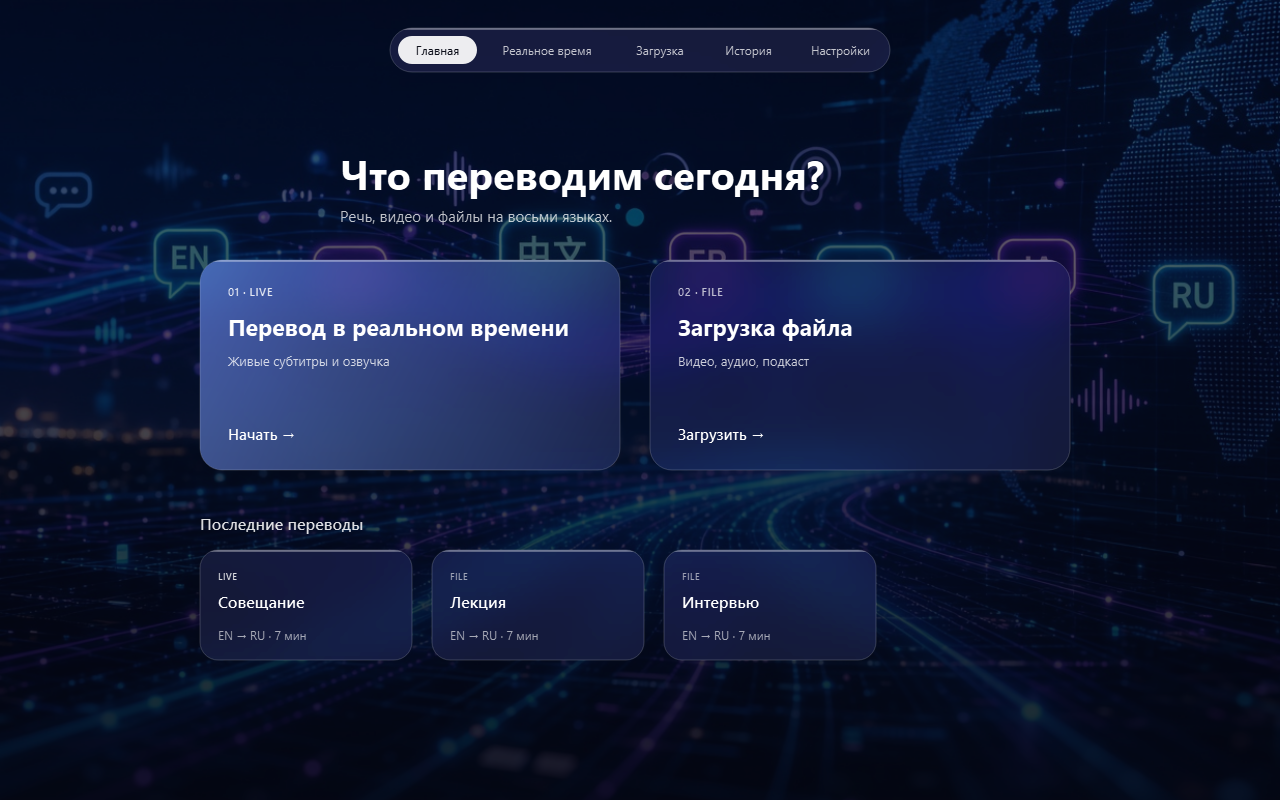
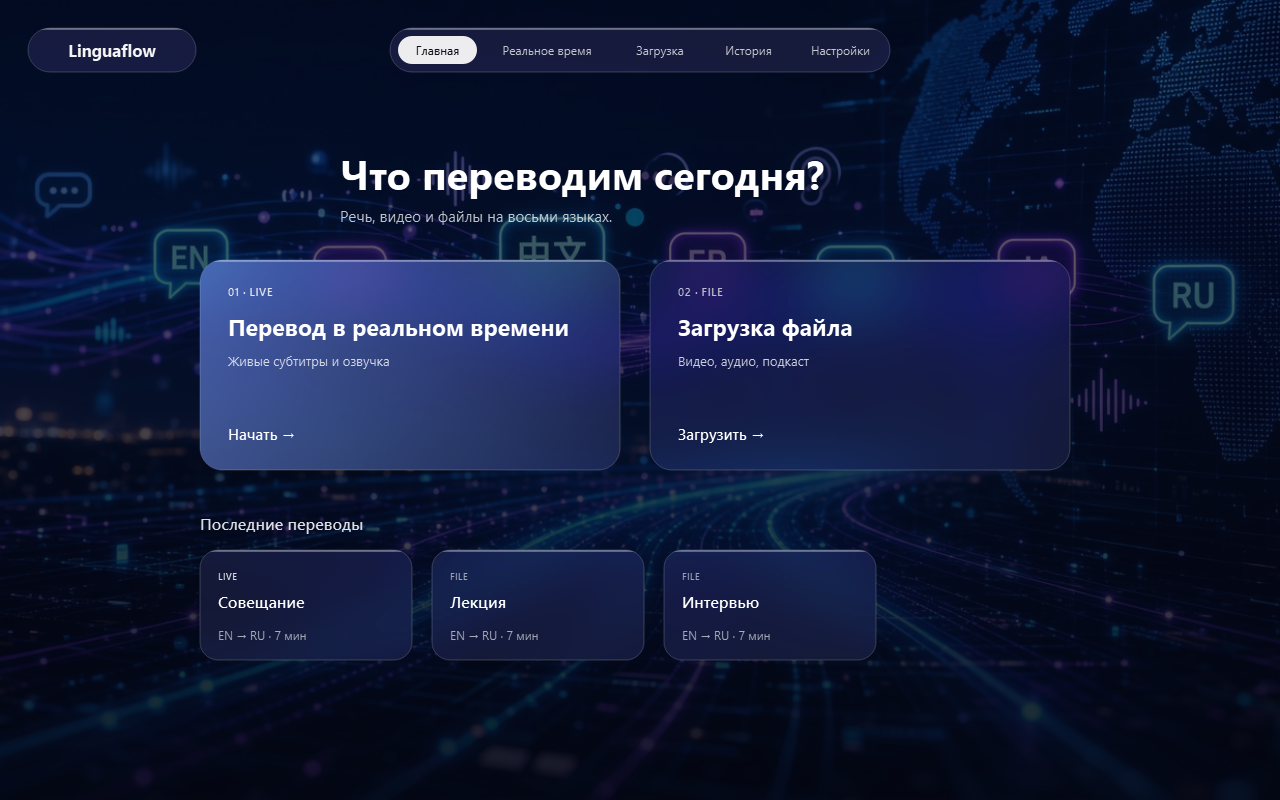
design: wordmark top left, sharing the nav bar's band
Same 28px gutter from the left as from the top, same height and radius as
the nav pill, so the two read as one row rather than two stacked elements.

Changed region(s): [[0.0, 0.0312, 0.1562, 0.0938]]

diff --git a/spike/glass_spike.py b/spike/glass_spike.py
@@ -203,8 +203,21 @@ def main() -> int:
     painter.setRenderHint(QPainter.Antialiasing)
     painter.setRenderHint(QPainter.TextAntialiasing)
 
+    # Wordmark, top left, sharing the nav bar's vertical band so the two read
+    # as one row. The gutter is the same on the left as above.
+    GUTTER = 28
+    NAV_TOP, NAV_HEIGHT = 28, 44
+    mark = QRect(GUTTER, NAV_TOP, 168, NAV_HEIGHT)
+    glass_panel(painter, blurred, mark, 22, tint=0.09)
+    font = QFont("Segoe UI", 13)
+    font.setWeight(QFont.Weight.Bold)
+    font.setLetterSpacing(QFont.PercentageSpacing, 98)
+    painter.setFont(font)
+    painter.setPen(QColor(255, 255, 255, 245))
+    painter.drawText(mark, Qt.AlignCenter, "Linguaflow")
+
     # Pill nav.
-    glass_panel(painter, blurred, QRect(390, 28, 500, 44), 22, tint=0.09)
+    glass_panel(painter, blurred, QRect(390, NAV_TOP, 500, NAV_HEIGHT), 22, tint=0.09)
     items = ["Главная", "Реальное время", "Загрузка", "История", "Настройки"]
     x = 404
     for index, item in enumerate(items):
